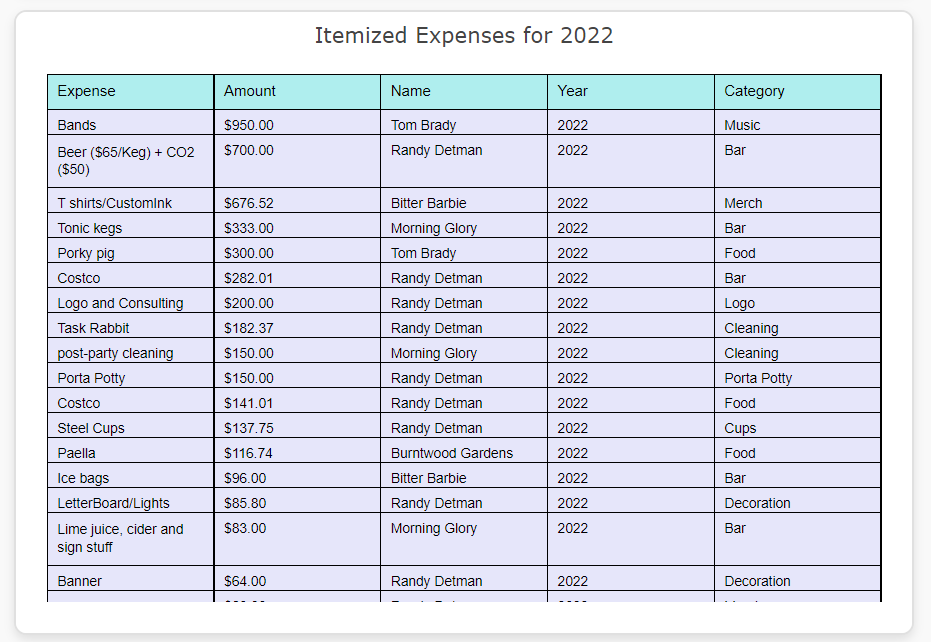
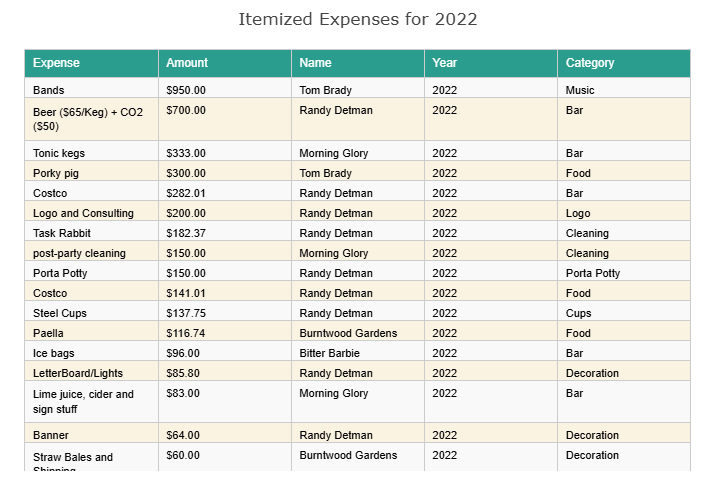
docs: update README.md gallery photos with new color palette

diff --git a/README.md b/README.md
@@ -59,19 +59,9 @@ All told, the data analysis found a way to shave roughly $1,000 off the expenses
 
 ## Gallery
 
-Exploratory Data Analysis:
-
-![Box and Whisker Plot from Exploratory Data Analysis](./resources/images/eda.png)
-
-Tableau Story:
-
-![Tableau Net Annual Profit or Loss](./resources/images/tableau.png)
-
-![Tableau Yearly Totals](./resources/images/tableau_alt.png)
-
-![Tableau Cost per Person](./resources/images/tableau_alt_2.png)
-
 Website Plots:
+
+![Pie Chart of Expenses by Category layered on image of pumpkin pie](./resources/images/pumpkin_pie_plot.png)
 
 ![Expenditure by Category, All Years](./resources/images/expenditure_by_category.png)
 
@@ -81,9 +71,25 @@ Website Plots:
 
 ![Donations Minus Expenses](./resources/images/donations_minus_expenses.png)
 
-Sunburst chart (for fun, not clarity):
+Sunburst chart (Pretty! And even more useless than a pie chart):
 
 ![Sunburst of All Expenses, All Years](./resources/images/Sunburst.png)
+
+2020 gag:
+
+![2020 with masks rolling across it](./resources/images/2020.png)
+
+Tableau Story:
+
+![Tableau Net Annual Profit or Loss](./resources/images/tableau.png)
+
+![Tableau Yearly Totals](./resources/images/tableau_alt.png)
+
+![Tableau Cost per Person](./resources/images/tableau_alt_2.png)
+
+Exploratory Data Analysis:
+
+![Box and Whisker Plot from Exploratory Data Analysis](./resources/images/eda.png)
 
 Photos & Logos:
 
@@ -96,8 +102,6 @@ Photos & Logos:
 ![Logo 2019](./resources/images/hp_2019.jpg)
 
 ![Logo 2022](./resources/images/hp_2022.jpg)
-
-![2020 with masks rolling across it](./resources/images/2020.png)
 
 ## Course Certificate
 
